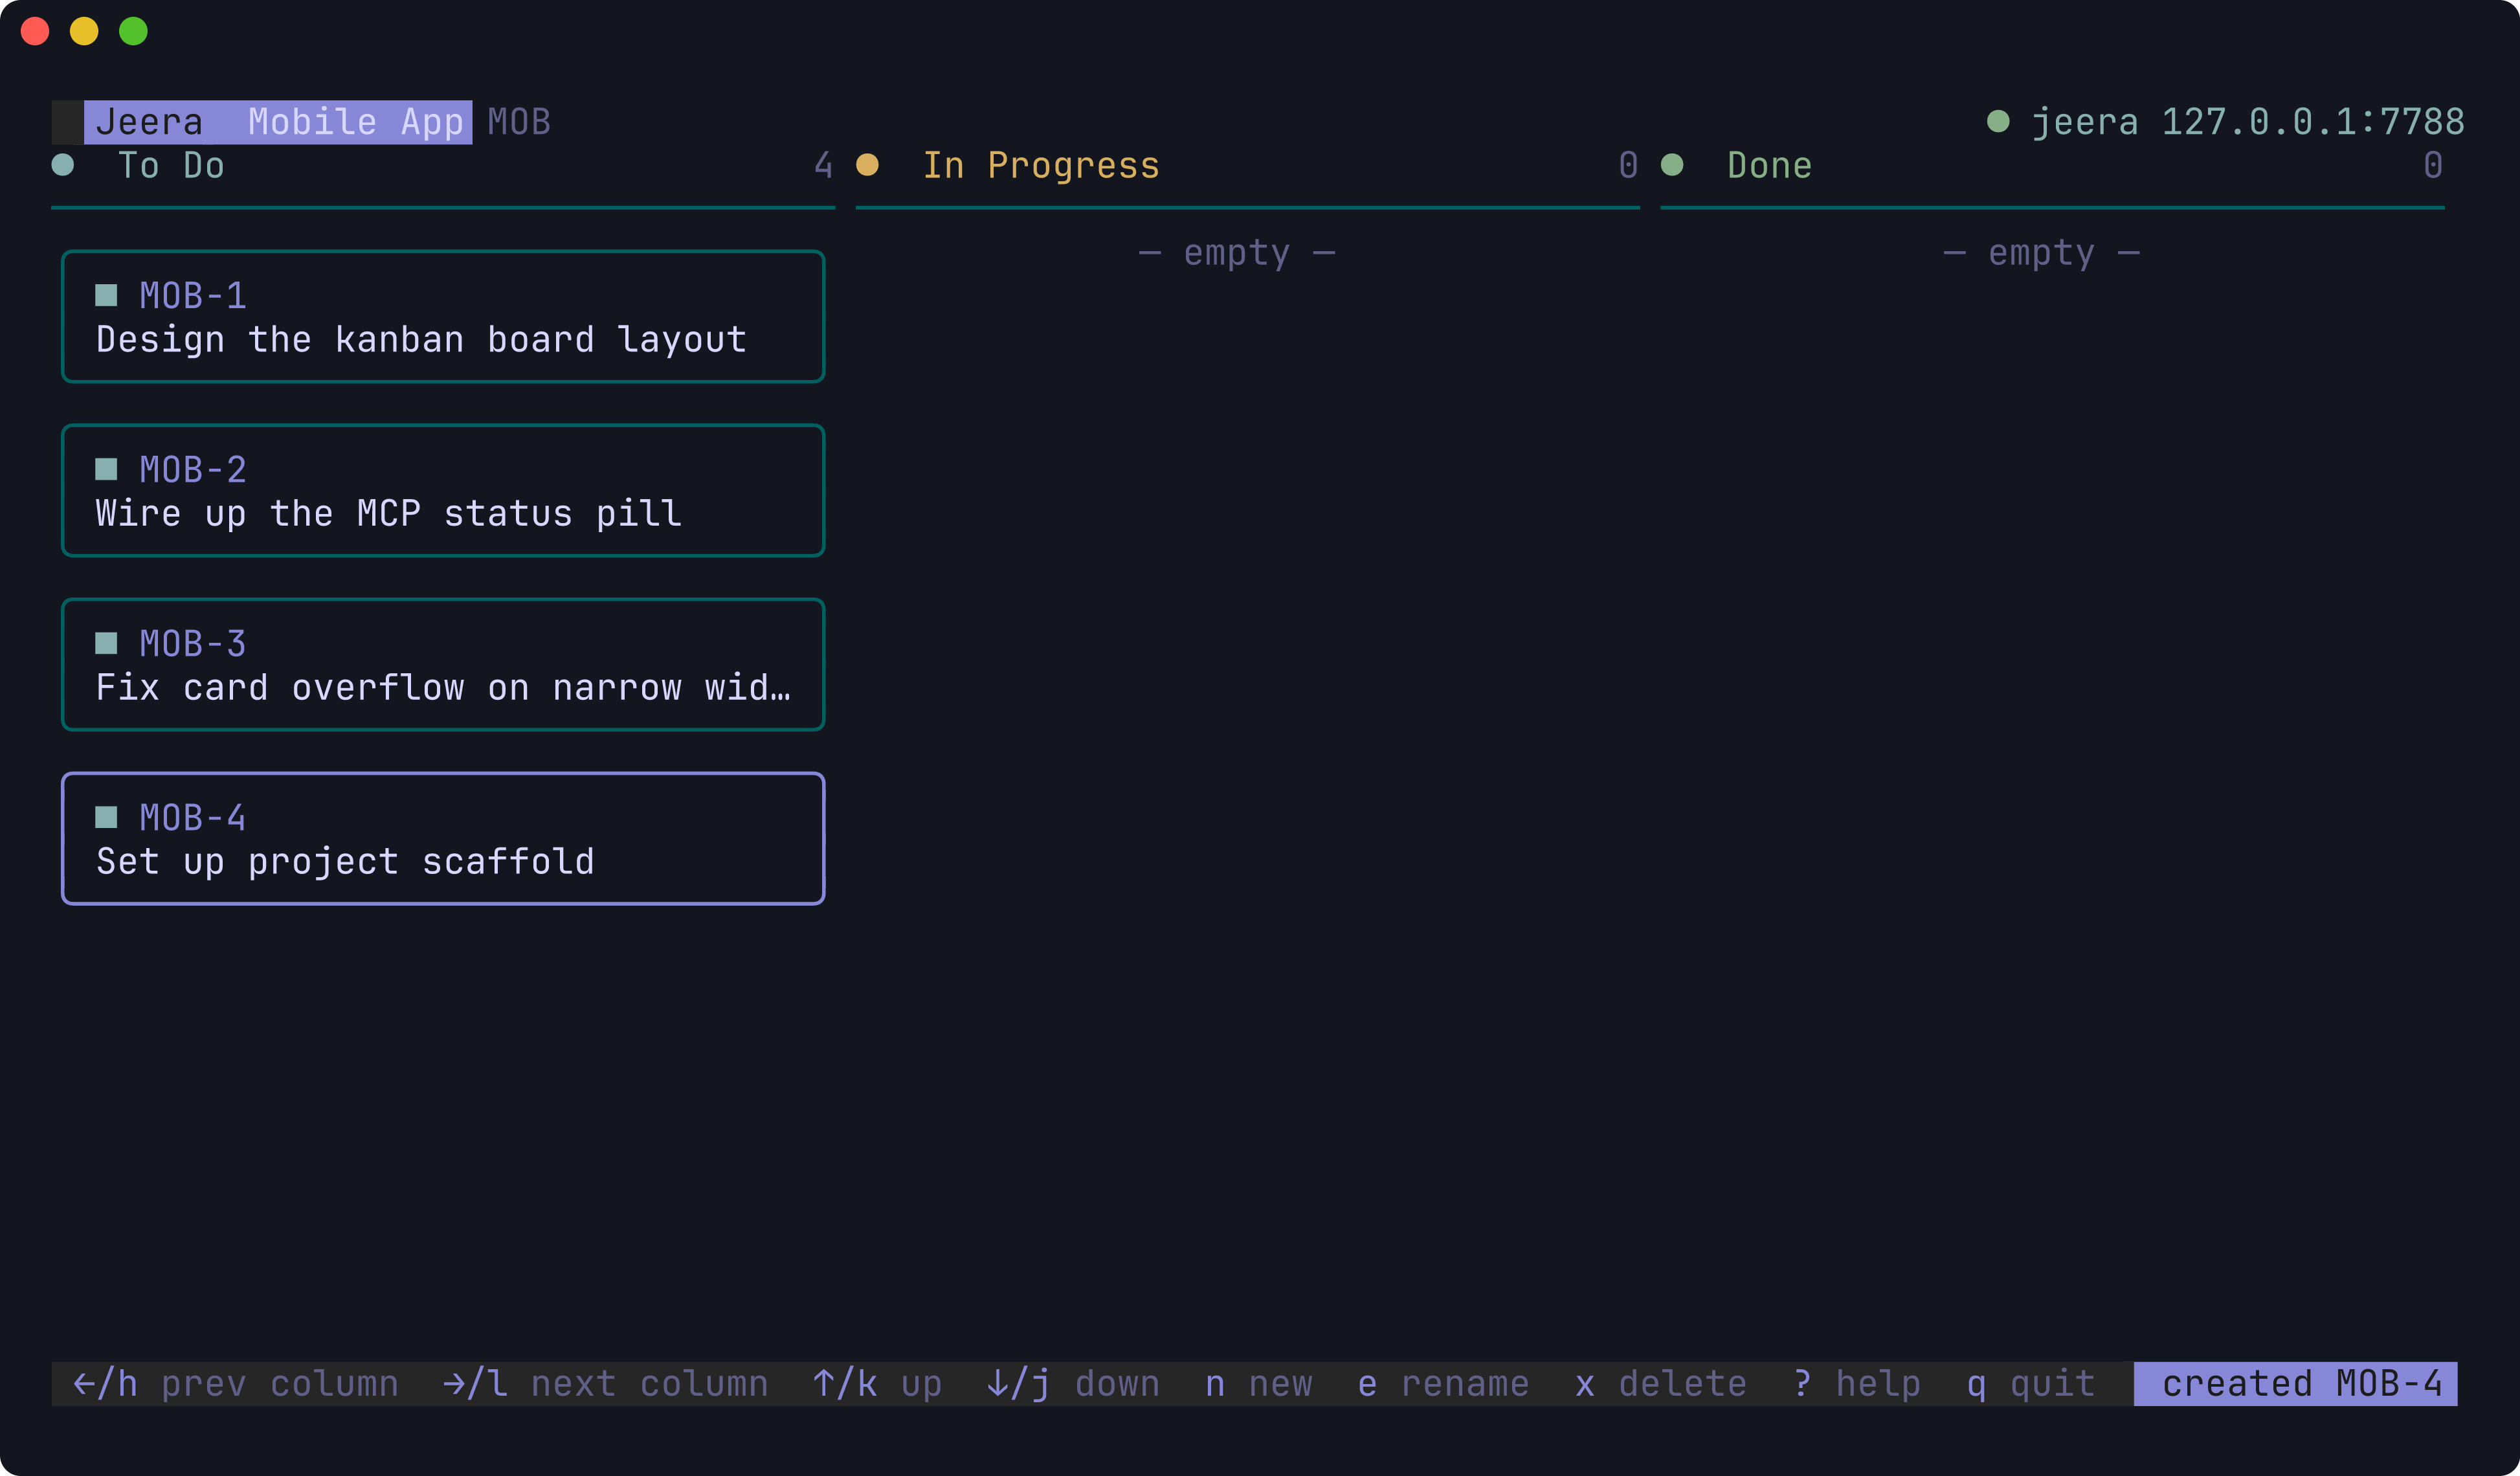
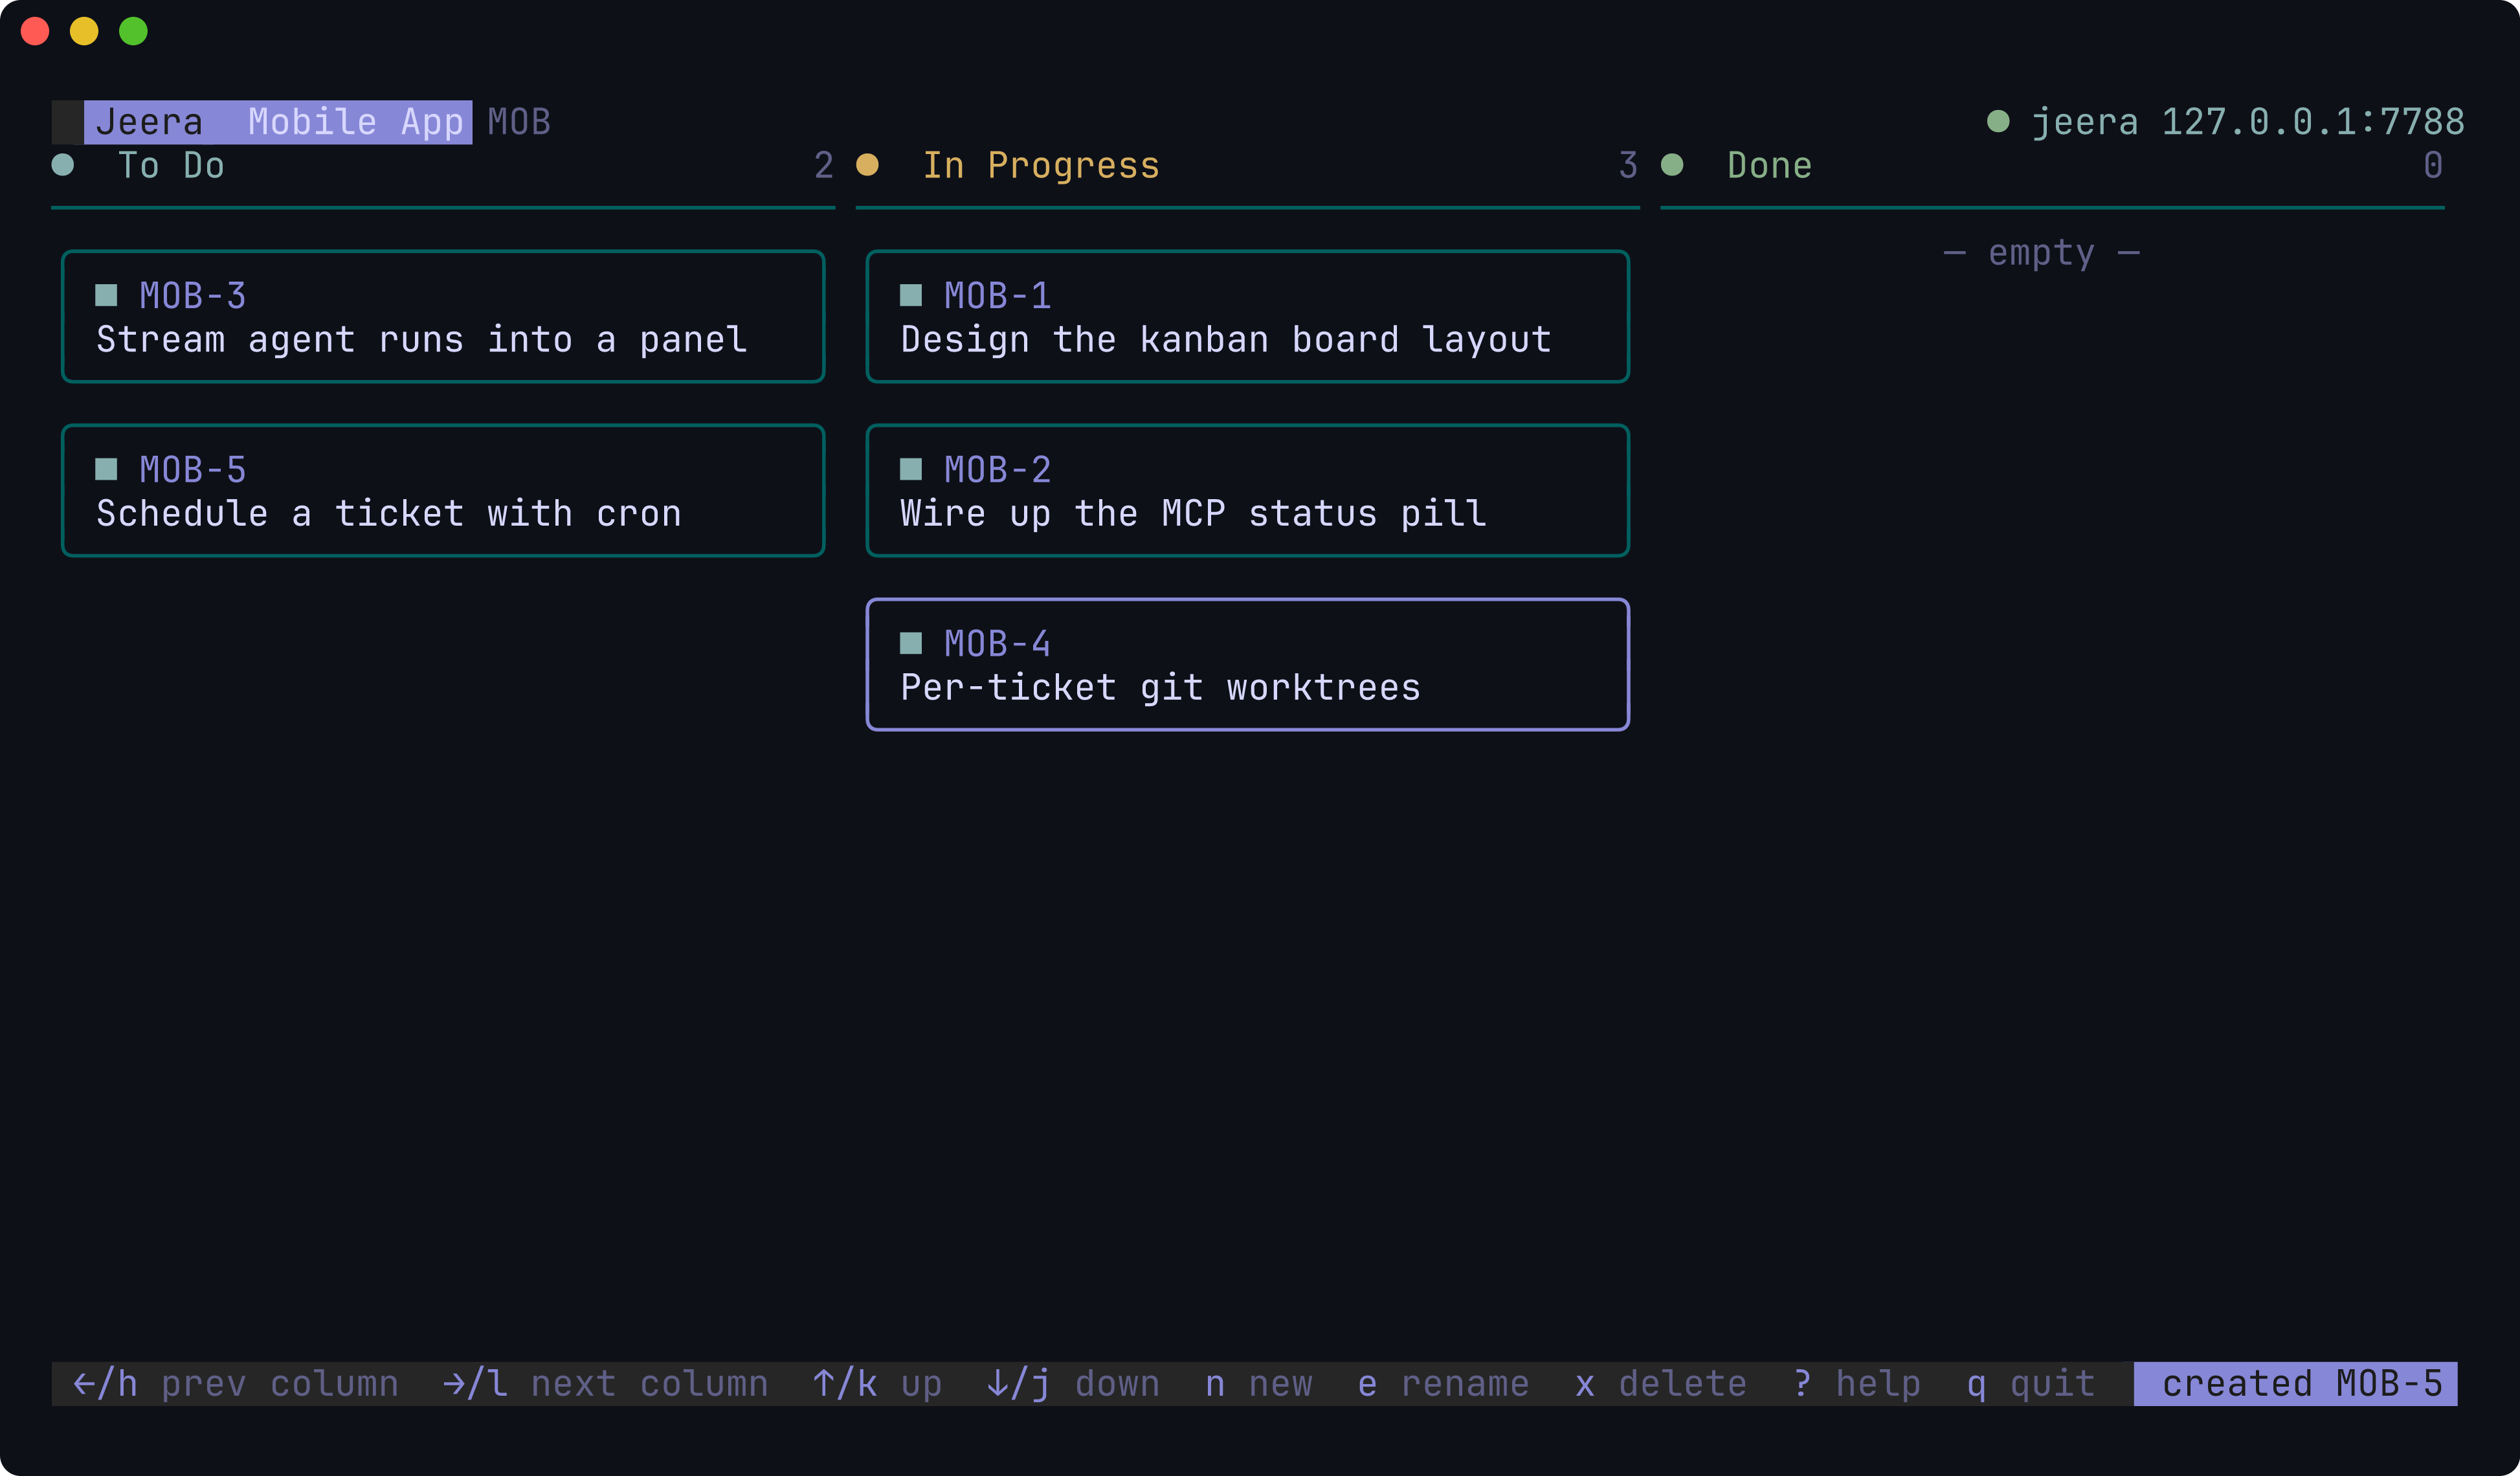
fix: preserve board selection across async reload; harden narrow-width layout
Address findings from an adversarial review of the TUI:

- reload() now preserves the selected issue by ID. Every TUI mutation also
  publishes a store event that is bridged back asynchronously; that reload was
  clamping the selection away, so after a move/create/rename the highlight
  jumped off the affected card. Capture the selected id before rebuilding and
  re-anchor with selectIssueByID (which falls back to clamp if it is gone).
- Guard against narrow terminals: a minimum-size view, a truncated header
  project name, and a clamped footer error width so the status bar never wraps
  to a second line and breaks the header/body/footer height math.

Adds regression tests: selection survives an async store event, store events
trigger a reload, move-key routing (Shift+L), move at column edges is a no-op,
confirm-cancel keeps the issue, form-esc cancels without mutating, projects
picker navigate+switch, not-ready/too-small views, header/footer stay one line
when narrow, the MCP-off pill, and toast/error handling.

Claude-Session: https://claude.ai/code/session_01E6QzgNpNH4RkXG2RYFLXAE

diff --git a/internal/tui/review_test.go b/internal/tui/review_test.go
@@ -1,0 +1,227 @@
+package tui
+
+import (
+	"strings"
+	"testing"
+
+	tea "charm.land/bubbletea/v2"
+	"charm.land/lipgloss/v2"
+
+	"github.com/03-CiprianoG/jeera/internal/core"
+	"github.com/03-CiprianoG/jeera/internal/store"
+)
+
+// TestMoveSelectionSurvivesStoreEvent guards the high-severity fix: after a move
+// (or create/rename), the asynchronous store-event reload must keep the
+// selection on the affected card rather than clamping it away.
+func TestMoveSelectionSurvivesStoreEvent(t *testing.T) {
+	m, st := newTestModel(t)
+	p := seedProject(t, st)
+	iss, _ := st.CreateIssue(core.Issue{ProjectID: p.ID, Title: "follow me"})
+	m.reload()
+	m.colIdx, m.cardIdx = 0, 0
+
+	next, _ := m.moveSelected(+1)
+	m = next.(Model)
+
+	// Simulate the bridged store event that TransitionIssue published.
+	next, _ = m.Update(storeEventMsg{ev: core.Event{Type: core.EventIssueUpdated, IssueID: iss.ID}})
+	m = next.(Model)
+
+	sel, ok := m.selectedIssue()
+	if !ok || sel.ID != iss.ID {
+		t.Fatalf("selection lost after async reload: ok=%v sel=%+v", ok, sel)
+	}
+	if m.colIdx != 1 {
+		t.Errorf("selection should stay on the moved card in column 1, got col %d", m.colIdx)
+	}
+}
+
+func TestStoreEventTriggersReload(t *testing.T) {
+	m, st := newTestModel(t)
+	p := seedProject(t, st)
+	m.reload()
+	if got := len(m.board.columns[0].cards); got != 0 {
+		t.Fatalf("expected empty board, got %d cards", got)
+	}
+	// An agent creates an issue directly in the store…
+	st.CreateIssue(core.Issue{ProjectID: p.ID, Title: "filed by an agent"})
+	// …and the bridged event makes the board reflect it.
+	next, _ := m.Update(storeEventMsg{ev: core.Event{Type: core.EventIssueCreated}})
+	m = next.(Model)
+	if got := len(m.board.columns[0].cards); got != 1 {
+		t.Errorf("board did not refresh on store event, %d cards", got)
+	}
+}
+
+func TestMoveSelectedAtEdgesIsNoOp(t *testing.T) {
+	m, st := newTestModel(t)
+	p := seedProject(t, st)
+	st.CreateIssue(core.Issue{ProjectID: p.ID, Title: "x"})
+	m.reload()
+	m.colIdx, m.cardIdx = 0, 0
+
+	// Left at the first column is a no-op (stays in column 0).
+	next, _ := m.moveSelected(-1)
+	m = next.(Model)
+	if len(m.board.columns[0].cards) != 1 || m.colIdx != 0 {
+		t.Errorf("move left at edge should be a no-op")
+	}
+	// Move to the last column, then right again is a no-op.
+	next, _ = m.moveSelected(+1)
+	m = next.(Model)
+	next, _ = m.moveSelected(+1)
+	m = next.(Model)
+	last := len(m.board.columns) - 1
+	next, _ = m.moveSelected(+1)
+	m = next.(Model)
+	if m.colIdx != last {
+		t.Errorf("move right at last column should be a no-op, col=%d", m.colIdx)
+	}
+}
+
+func TestMoveKeyRoutesToTransition(t *testing.T) {
+	m, st := newTestModel(t)
+	p := seedProject(t, st)
+	iss, _ := st.CreateIssue(core.Issue{ProjectID: p.ID, Title: "x"})
+	m.reload()
+	m.colIdx, m.cardIdx = 0, 0
+
+	// Shift+L (key "L") routes to a move-right and the selection follows.
+	next, _ := m.updateBoard(keyPress("L"))
+	m = next.(Model)
+	if m.colIdx != 1 {
+		t.Fatalf("L should move the card to column 1, got col %d", m.colIdx)
+	}
+	if sel, ok := m.selectedIssue(); !ok || sel.ID != iss.ID {
+		t.Errorf("selection should follow the moved card")
+	}
+}
+
+func TestConfirmCancelLeavesIssueIntact(t *testing.T) {
+	m, st := newTestModel(t)
+	p := seedProject(t, st)
+	iss, _ := st.CreateIssue(core.Issue{ProjectID: p.ID, Title: "keep me"})
+	m.reload()
+	m.colIdx, m.cardIdx = 0, 0
+
+	next, _ := m.updateBoard(keyPress("x"))
+	m = next.(Model)
+	next, _ = m.updateConfirm(keyPress("n")) // cancel
+	m = next.(Model)
+
+	if _, err := st.GetIssue(iss.ID); err != nil {
+		t.Errorf("cancelling delete should leave the issue intact: %v", err)
+	}
+	if m.mode != modeBoard {
+		t.Errorf("expected board mode after cancel, got %v", m.mode)
+	}
+}
+
+func TestFormEscCancelsWithoutMutating(t *testing.T) {
+	m, st := newTestModel(t)
+	seedProject(t, st)
+	m.reload()
+
+	next, _ := m.updateBoard(keyPress("n")) // open create-issue form
+	m = next.(Model)
+	if m.mode != modeForm {
+		t.Fatalf("expected form mode, got %v", m.mode)
+	}
+	m.form.fields[0].SetValue("should not persist")
+	next, _ = m.updateForm(keyPress("esc"))
+	m = next.(Model)
+
+	if m.mode != modeBoard || m.form != nil {
+		t.Errorf("esc should close the form")
+	}
+	if issues, _ := st.ListIssues(store.IssueFilter{}); len(issues) != 0 {
+		t.Errorf("esc should not create an issue, found %d", len(issues))
+	}
+}
+
+func TestProjectsPickerNavigateAndSwitch(t *testing.T) {
+	m, st := newTestModel(t)
+	seedProject(t, st) // JEE, becomes active
+	st.CreateProject(core.Project{Name: "Web", KeyPrefix: "WEB", RepoPath: "/w"})
+	m.reload()
+
+	m.mode = modeProjects
+	m.projSel = m.activeProjectIndex()
+	next, _ := m.updateProjects(keyPress("j")) // move selection down
+	m = next.(Model)
+	next, _ = m.updateProjects(keyPress("enter"))
+	m = next.(Model)
+
+	if m.active.KeyPrefix != "WEB" {
+		t.Errorf("expected active project WEB after switch, got %s", m.active.KeyPrefix)
+	}
+	if m.mode != modeBoard {
+		t.Errorf("expected board mode after switch, got %v", m.mode)
+	}
+}
+
+func TestViewNotReadyAndTooSmall(t *testing.T) {
+	m, st := newTestModel(t)
+	seedProject(t, st)
+	m.reload()
+
+	m.width, m.height = 0, 0
+	if got := m.View().Content; got != "" {
+		t.Errorf("unready view should be empty, got %q", got)
+	}
+	m.width, m.height = 10, 5
+	if got := stripANSI(m.View().Content); !strings.Contains(got, "too small") {
+		t.Errorf("tiny view should warn, got %q", got)
+	}
+}
+
+func TestHeaderFooterStayOneLineWhenNarrow(t *testing.T) {
+	m, st := newTestModel(t)
+	p, _ := st.CreateProject(core.Project{
+		Name: strings.Repeat("Very Long Project Name ", 6), KeyPrefix: "LONG", RepoPath: "/l",
+	})
+	m.active = p
+	m.reload()
+	m.width = 40
+
+	if h := lipgloss.Height(m.renderHeader()); h != 1 {
+		t.Errorf("header wrapped to %d lines with a long project name", h)
+	}
+	m.errText = strings.Repeat("an error happened ", 10)
+	if h := lipgloss.Height(m.renderFooter()); h != 1 {
+		t.Errorf("footer wrapped to %d lines with a long error", h)
+	}
+}
+
+func TestMCPPillOff(t *testing.T) {
+	m, _ := newTestModel(t) // mcp is nil
+	if got := stripANSI(m.mcpPill()); !strings.Contains(got, "mcp off") {
+		t.Errorf("nil MCP should show 'mcp off', got %q", got)
+	}
+}
+
+func TestToastAndErrorHandling(t *testing.T) {
+	m, _ := newTestModel(t)
+	next, _ := m.Update(toastMsg{"saved"})
+	m = next.(Model)
+	if m.toastText != "saved" {
+		t.Errorf("toast not set")
+	}
+	next, _ = m.Update(errMsg{err: errTest{}})
+	m = next.(Model)
+	if m.errText == "" || m.toastText != "" {
+		t.Errorf("error should set errText and clear toast")
+	}
+	next, _ = m.Update(clearToastMsg{})
+	m = next.(Model)
+	if m.toastText != "" {
+		t.Errorf("clearToast should clear toast")
+	}
+}
+
+type errTest struct{}
+
+func (errTest) Error() string { return "boom" }
+
+var _ tea.Msg = storeEventMsg{}

diff --git a/internal/tui/model.go b/internal/tui/model.go
@@ -64,8 +64,16 @@ func New(st *store.Store, mcpSrv *mcp.Server) Model {
 // Init implements tea.Model.
 func (m Model) Init() tea.Cmd { return nil }
 
-// reload re-reads projects and the active project's board from the store.
+// reload re-reads projects and the active project's board from the store. It
+// preserves the current selection by issue ID, so the asynchronous store-event
+// reload (fired after every mutation, including the TUI's own) does not throw
+// the highlight off the card a move/create/rename just acted on.
 func (m *Model) reload() {
+	prevID := int64(0)
+	if iss, ok := m.selectedIssue(); ok {
+		prevID = iss.ID
+	}
+
 	projects, err := m.store.ListProjects()
 	if err != nil {
 		m.errText = err.Error()
@@ -100,7 +108,11 @@ func (m *Model) reload() {
 		return
 	}
 	m.board = bd
-	m.clampSelection()
+	if prevID != 0 {
+		m.selectIssueByID(prevID) // re-anchor; falls back to clamp if it's gone
+	} else {
+		m.clampSelection()
+	}
 }
 
 func (m *Model) clampSelection() {
@@ -188,6 +200,12 @@ func (m Model) handleKey(msg tea.KeyPressMsg) (tea.Model, tea.Cmd) {
 func (m Model) View() tea.View {
 	if m.width == 0 || m.height == 0 {
 		return tea.NewView("")
+	}
+	if m.width < 30 || m.height < 8 {
+		v := tea.NewView(m.theme.HelpDesc.Render("terminal too small"))
+		v.AltScreen = true
+		v.BackgroundColor = m.theme.P.BgBase
+		return v
 	}
 	header := m.renderHeader()
 	footer := m.renderFooter()

diff --git a/internal/tui/helpers_test.go b/internal/tui/helpers_test.go
@@ -39,9 +39,16 @@ func seedProject(t *testing.T, st *store.Store) core.Project {
 	return p
 }
 
-// keyPress builds a KeyPressMsg for a single character (the char-key aliases the
-// keymap accepts cover navigation and all single-letter actions).
+// keyPress builds a KeyPressMsg for a single character or a named special key.
 func keyPress(s string) tea.KeyPressMsg {
+	switch s {
+	case "enter":
+		return tea.KeyPressMsg{Code: tea.KeyEnter}
+	case "esc":
+		return tea.KeyPressMsg{Code: tea.KeyEscape}
+	case "tab":
+		return tea.KeyPressMsg{Code: tea.KeyTab}
+	}
 	return tea.KeyPressMsg{Code: []rune(s)[0], Text: s}
 }
 

diff --git a/internal/tui/statusbar.go b/internal/tui/statusbar.go
@@ -16,12 +16,17 @@ func (m Model) renderHeader() string {
 		Foreground(t.P.BgBase).Background(t.P.Focus).Bold(true).
 		Padding(0, 1).Render("Jeera")
 
+	right := m.mcpPill()
 	proj := t.HelpDesc.Render("no project — press n to create one")
 	if m.active.ID != 0 {
-		proj = t.Title.Render(m.active.Name) + " " + t.CardMeta.Render(m.active.KeyPrefix)
+		// Truncate the project name so a long one never overflows the bar.
+		budget := m.width - 4 - lipgloss.Width(brand) - lipgloss.Width(right) - lipgloss.Width(m.active.KeyPrefix) - 2
+		if budget < 6 {
+			budget = 6
+		}
+		proj = t.Title.Render(truncate(m.active.Name, budget)) + " " + t.CardMeta.Render(m.active.KeyPrefix)
 	}
 	left := brand + " " + proj
-	right := m.mcpPill()
 
 	inner := spread(left, right, m.width-2)
 	return lipgloss.NewStyle().Background(t.P.BgSurface).Width(m.width).Render(" " + inner + " ")
@@ -35,7 +40,7 @@ func (m Model) renderFooter() string {
 	right := ""
 	switch {
 	case m.errText != "":
-		right = t.Error.Render("! " + truncate(m.errText, m.width/2))
+		right = t.Error.Render("! " + truncate(m.errText, m.width/3))
 	case m.toastText != "":
 		right = t.Toast.Render(m.toastText)
 	}